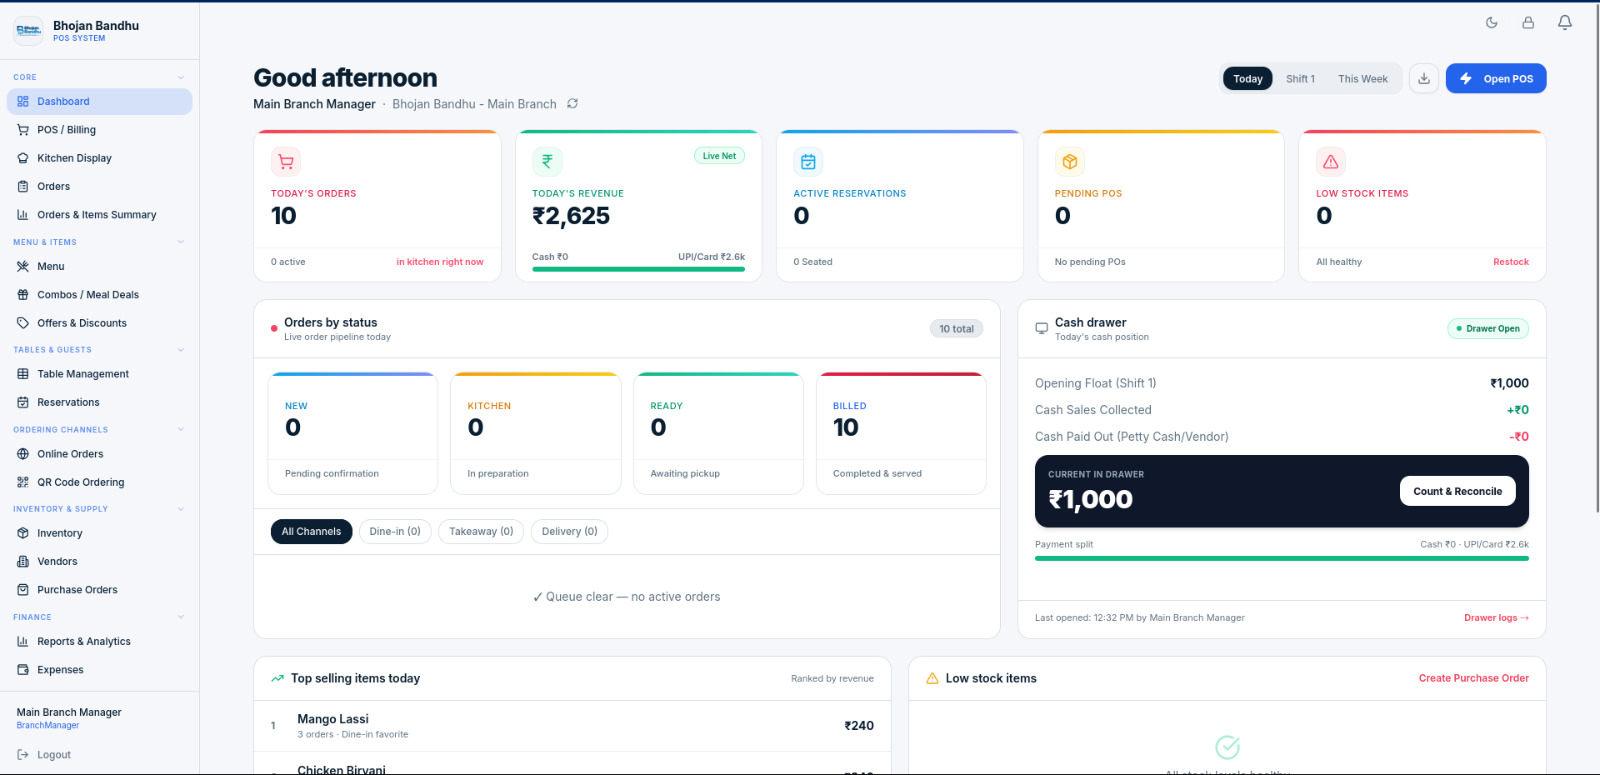
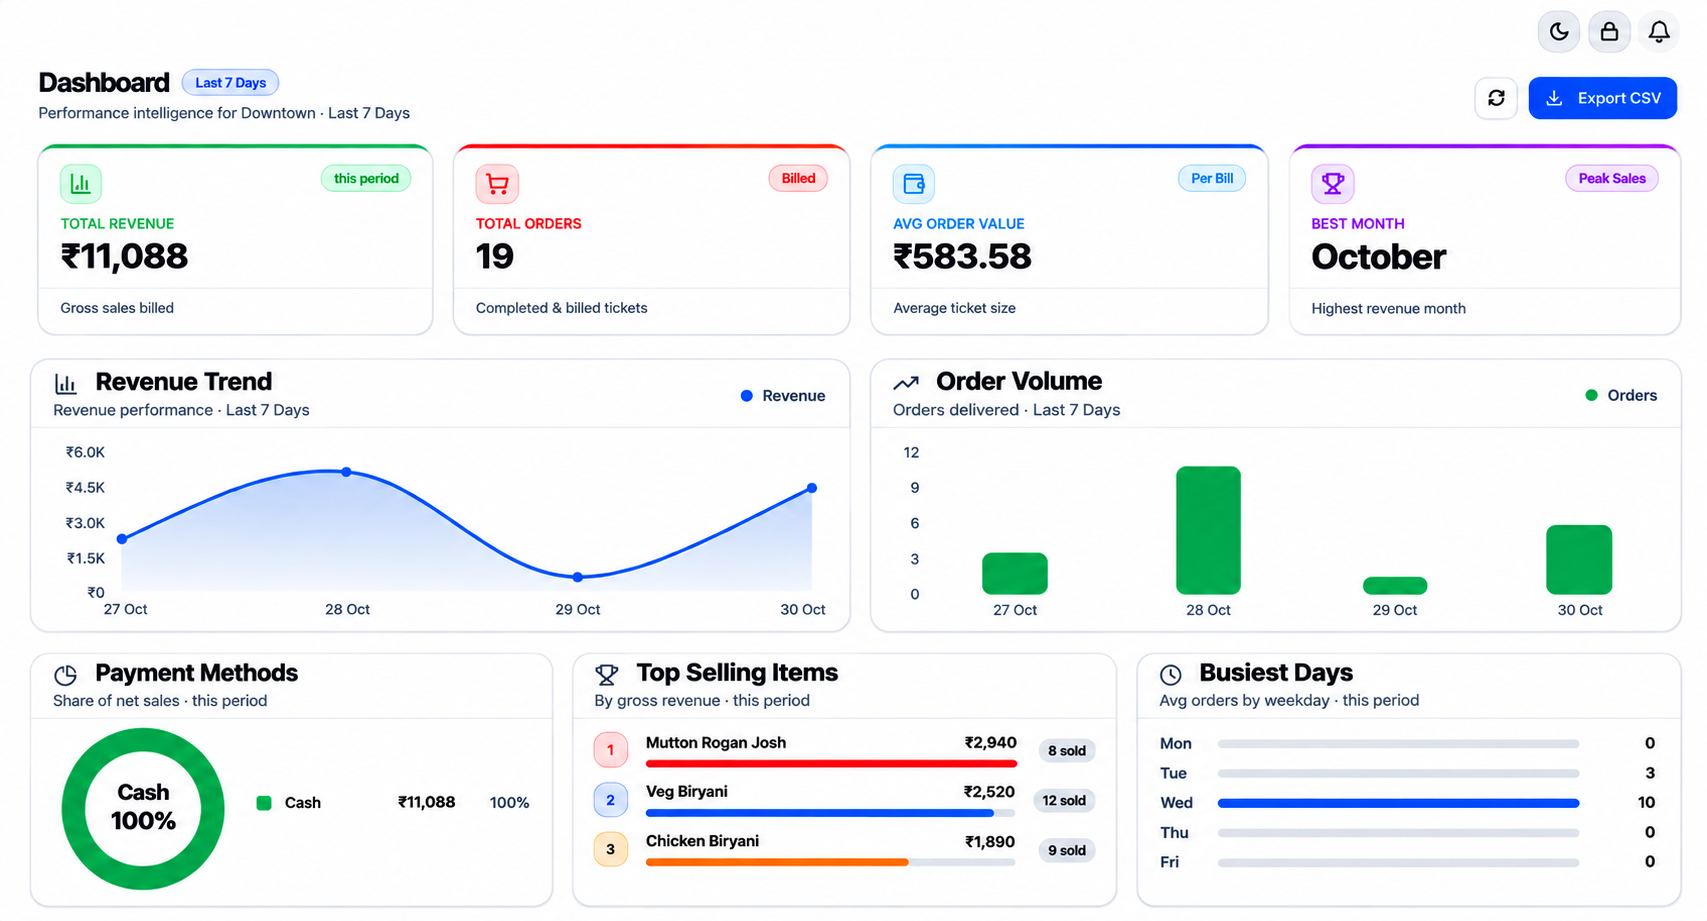
fix

diff --git a/client/src/components/BusinessPulse.jsx b/client/src/components/BusinessPulse.jsx
@@ -1,6 +1,21 @@
-import { useRef } from 'react'
-import { motion, useInView } from 'framer-motion'
-import { TrendingUp, Activity, BarChart3, AlertCircle, ArrowUpRight, Sparkles } from 'lucide-react'
+import { useState, useEffect, useRef } from 'react'
+import { motion, AnimatePresence, useInView } from 'framer-motion'
+import {
+  TrendingUp,
+  Activity,
+  BarChart3,
+  AlertCircle,
+  ArrowUpRight,
+  Sparkles,
+  Lock,
+  RotateCw,
+  ChevronLeft,
+  ChevronRight,
+  Plus,
+  X,
+  Maximize2,
+  ZoomIn,
+} from 'lucide-react'
 import dashboardMockup from '../assets/dashboard-mockup.png'
 
 const metrics = [
@@ -12,19 +27,37 @@ const metrics = [
 
 export default function BusinessPulse({ darkMode }) {
   const ref = useRef(null)
+  const [isZoomed, setIsZoomed] = useState(false)
   const inView = useInView(ref, { once: true, margin: '-60px' })
 
+  // Close lightbox on Escape key
+  useEffect(() => {
+    const handleKeyDown = (e) => {
+      if (e.key === 'Escape') setIsZoomed(false)
+    }
+    if (isZoomed) {
+      window.addEventListener('keydown', handleKeyDown)
+      document.body.style.overflow = 'hidden'
+    } else {
+      document.body.style.overflow = ''
+    }
+    return () => {
+      window.removeEventListener('keydown', handleKeyDown)
+      document.body.style.overflow = ''
+    }
+  }, [isZoomed])
+
   return (
-    <section className="py-14 sm:py-16 md:py-20 relative overflow-hidden border-t border-slate-800/40 dark:border-white/[0.06]" ref={ref}>
+    <section className="py-14 sm:py-16 md:py-24 relative overflow-hidden border-t border-slate-800/40 dark:border-white/[0.06]" ref={ref}>
       <div className="max-w-7xl mx-auto px-4 sm:px-6 lg:px-8 relative z-10">
-        <div className="grid grid-cols-1 lg:grid-cols-12 gap-8 sm:gap-10 lg:gap-14 items-center">
+        <div className="grid grid-cols-1 lg:grid-cols-12 gap-8 sm:gap-10 lg:gap-10 xl:gap-12 items-center">
           
-          {/* ================= LEFT COLUMN: Text & Badges (5 Cols) ================= */}
+          {/* ================= LEFT COLUMN: Text & Badges (4 Cols on xl, 5 on lg) ================= */}
           <motion.div
             initial={{ opacity: 0, x: -30 }}
             animate={inView ? { opacity: 1, x: 0 } : {}}
             transition={{ duration: 0.6 }}
-            className="lg:col-span-5 flex flex-col items-start text-left"
+            className="lg:col-span-5 xl:col-span-4 flex flex-col items-start text-left"
           >
             <div className="inline-flex items-center gap-2 px-3.5 py-1.5 rounded-full gradient-badge mb-4">
               <Sparkles size={14} className="text-[#068aca]" />
@@ -78,50 +111,194 @@ export default function BusinessPulse({ darkMode }) {
             </button>
           </motion.div>
 
-          {/* ================= RIGHT COLUMN: Dashboard UI Mockup (7 Cols) ================= */}
+          {/* ================= RIGHT COLUMN: Dashboard UI Mockup (8 Cols on xl, 7 on lg) ================= */}
           <motion.div
-            initial={{ opacity: 0, x: 30 }}
-            animate={inView ? { opacity: 1, x: 0 } : {}}
-            transition={{ duration: 0.6, delay: 0.2 }}
-            className="lg:col-span-7 relative"
+            initial={{ opacity: 0, y: 20 }}
+            animate={inView ? { opacity: 1, y: 0 } : {}}
+            transition={{ duration: 0.5, delay: 0.15 }}
+            className="lg:col-span-7 xl:col-span-8 relative w-full"
           >
             {/* Ambient backlight glow */}
-            <div className="absolute top-1/2 left-1/2 -translate-x-1/2 -translate-y-1/2 w-96 h-96 bg-[#068aca]/15 blur-[90px] rounded-full pointer-events-none" />
+            <div className="absolute top-1/2 left-1/2 -translate-x-1/2 -translate-y-1/2 w-full max-w-2xl h-80 sm:h-96 bg-[#068aca]/20 blur-[100px] sm:blur-[120px] rounded-full pointer-events-none" />
 
-            {/* Dashboard Frame */}
-            <div className={`relative rounded-2xl p-2 sm:p-3 border shadow-2xl backdrop-blur-xl ${
-              darkMode
-                ? 'bg-dark-surface/90 border-dark-border shadow-black/60'
-                : 'bg-slate-800 border-slate-700 shadow-slate-900/20'
-            }`}>
-              {/* Window Controls Bar */}
-              <div className="flex items-center justify-between px-2.5 pb-2 mb-1 border-b border-slate-700 dark:border-white/[0.06]">
-                <div className="flex items-center gap-1.5">
-                  <span className="w-2.5 h-2.5 rounded-full bg-[#068aca]" />
-                  <span className="w-2.5 h-2.5 rounded-full bg-[#84bed9]" />
-                  <span className="w-2.5 h-2.5 rounded-full bg-[#0996d4]" />
+            {/* Dashboard Browser Window Frame */}
+            <div className="relative rounded-2xl sm:rounded-3xl border border-slate-700/80 dark:border-white/10 bg-slate-900 shadow-[0_25px_70px_-15px_rgba(0,0,0,0.85),0_0_50px_rgba(6,138,202,0.18)] ring-1 ring-white/10 overflow-hidden">
+              
+              {/* Row 1: macOS Traffic Lights & Browser Tabs Bar */}
+              <div className="flex items-center justify-between px-3 sm:px-4 pt-3 pb-2 border-b border-slate-800 bg-slate-950/90">
+                <div className="flex items-center gap-2 sm:gap-3">
+                  {/* macOS Window Controls */}
+                  <div className="flex items-center gap-1.5 pr-2 border-r border-slate-800">
+                    <span className="w-3 h-3 rounded-full bg-[#ff5f56] border border-[#e0443e]/40 shadow-sm" />
+                    <span className="w-3 h-3 rounded-full bg-[#ffbd2e] border border-[#dea123]/40 shadow-sm" />
+                    <button
+                      type="button"
+                      onClick={() => setIsZoomed(true)}
+                      title="Expand to Fullscreen"
+                      aria-label="Expand to Fullscreen"
+                      className="w-3 h-3 rounded-full bg-[#27c93f] border border-[#1aab29]/40 shadow-sm hover:opacity-80 transition-opacity cursor-pointer"
+                    />
+                  </div>
+
+                  {/* Active Browser Tab */}
+                  <div className="flex items-center gap-2 px-3 py-1 rounded-t-lg bg-slate-800/90 border-t-2 border-t-[#068aca] border-x border-slate-700/60 shadow-sm text-xs font-medium text-slate-200">
+                    <span className="w-2 h-2 rounded-full bg-emerald-400 animate-pulse" />
+                    <span className="truncate max-w-[130px] sm:max-w-[190px]">Bhojan Bandhu — HQ</span>
+                    <X size={12} className="text-slate-400 hover:text-white transition-colors cursor-pointer shrink-0 ml-1" />
+                  </div>
+
+                  {/* Inactive Tab (Tablet & Desktop) */}
+                  <div className="hidden sm:flex items-center gap-1.5 px-3 py-1 rounded-t-lg text-xs font-medium text-slate-400 hover:text-slate-300 transition-colors cursor-pointer">
+                    <span className="truncate max-w-[120px]">Branch Analytics</span>
+                  </div>
+
+                  {/* New Tab Button */}
+                  <button
+                    type="button"
+                    aria-label="New Tab"
+                    className="hidden sm:flex p-1 rounded-md text-slate-400 hover:text-white hover:bg-slate-800 transition-colors"
+                  >
+                    <Plus size={13} />
+                  </button>
                 </div>
-                <span className="text-[10px] font-mono text-slate-300">
-                  BhojanBandhu-cloud-dashboard.com
-                </span>
-                <span className="text-[9px] font-semibold px-1.5 py-0.5 rounded bg-emerald-500/15 text-emerald-400">
-                  LIVE
-                </span>
+
+                {/* Right Side Status Indicator */}
+                <div className="flex items-center gap-2 text-xs">
+                  <span className="hidden md:inline-flex items-center gap-1.5 px-2.5 py-0.5 rounded-full bg-emerald-500/10 border border-emerald-500/25 text-emerald-400 text-[10px] font-semibold tracking-wide">
+                    <span className="w-1.5 h-1.5 rounded-full bg-emerald-400 animate-ping" />
+                    LIVE SYNC
+                  </span>
+                  <span className="text-[10px] font-mono text-slate-400 bg-slate-800/60 px-2 py-0.5 rounded border border-slate-700/50">
+                    v2.4 ERP
+                  </span>
+                </div>
               </div>
 
-              {/* Dashboard Image */}
-              <motion.img
-                src={dashboardMockup}
-                alt="BhojanBandhu Multi-Branch SaaS Management Dashboard"
-                className="w-full h-auto rounded-xl object-contain border border-slate-700/50 dark:border-white/[0.04]"
-                whileHover={{ scale: 1.01 }}
-                transition={{ duration: 0.3 }}
-              />
+              {/* Row 2: Navigation Bar & Address URL Omnibox */}
+              <div className="flex items-center gap-2 sm:gap-3 px-3 sm:px-4 py-2 border-b border-slate-800/80 bg-slate-900/90 text-slate-400">
+                {/* Back / Forward / Reload Controls */}
+                <div className="flex items-center gap-1 shrink-0">
+                  <button type="button" aria-label="Go Back" className="p-1 rounded hover:bg-slate-800 hover:text-white transition-colors">
+                    <ChevronLeft size={15} />
+                  </button>
+                  <button type="button" aria-label="Go Forward" className="p-1 rounded text-slate-600 cursor-not-allowed">
+                    <ChevronRight size={15} />
+                  </button>
+                  <button type="button" aria-label="Reload Page" className="p-1 rounded hover:bg-slate-800 hover:text-white transition-colors">
+                    <RotateCw size={13} />
+                  </button>
+                </div>
+
+                {/* Omnibox / URL Bar */}
+                <div className="flex-1 max-w-xl mx-auto bg-slate-950/80 border border-slate-700/70 rounded-lg px-2.5 sm:px-3 py-1 flex items-center justify-between text-xs font-mono shadow-inner">
+                  <div className="flex items-center gap-1.5 truncate">
+                    <Lock size={12} className="text-emerald-400 shrink-0" />
+                    <span className="text-slate-500 text-[11px] sm:text-xs">https://</span>
+                    <span className="text-slate-200 text-[11px] sm:text-xs font-medium">cloud.bhojanbandhu.com</span>
+                    <span className="text-[#068aca] text-[11px] sm:text-xs">/live-pulse</span>
+                  </div>
+                  <span className="hidden sm:inline-block text-[10px] text-emerald-400 font-sans font-medium px-1.5 py-0.5 rounded bg-emerald-500/15 border border-emerald-500/20 shrink-0 ml-2">
+                    24ms
+                  </span>
+                </div>
+
+                {/* Right Action Icons: Fullscreen / Lightbox Zoom */}
+                <div className="flex items-center gap-1 shrink-0">
+                  <button
+                    type="button"
+                    onClick={() => setIsZoomed(true)}
+                    title="Expand View"
+                    aria-label="Expand View"
+                    className="p-1 rounded hover:bg-slate-800 hover:text-white transition-colors cursor-pointer"
+                  >
+                    <Maximize2 size={13} />
+                  </button>
+                </div>
+              </div>
+
+              {/* Window Canvas: Flush Edge-to-Edge Dashboard Mockup with Crisp Rendering */}
+              <div
+                className="relative w-full bg-slate-950 overflow-hidden cursor-zoom-in group"
+                onClick={() => setIsZoomed(true)}
+              >
+                <img
+                  src={dashboardMockup}
+                  alt="BhojanBandhu Multi-Branch SaaS Management Dashboard"
+                  className="w-full h-auto block select-none"
+                  style={{
+                    imageRendering: '-webkit-optimize-contrast',
+                    transform: 'translateZ(0)',
+                    backfaceVisibility: 'hidden',
+                    WebkitBackfaceVisibility: 'hidden',
+                  }}
+                  loading="eager"
+                  decoding="async"
+                />
+
+                {/* Hover zoom affordance */}
+                <div className="absolute inset-0 bg-slate-950/25 opacity-0 group-hover:opacity-100 transition-opacity duration-200 flex items-center justify-center pointer-events-none">
+                  <span className="px-3.5 py-1.5 rounded-xl bg-slate-900/95 text-white text-xs font-semibold border border-white/15 shadow-2xl flex items-center gap-2 backdrop-blur-md">
+                    <ZoomIn size={14} className="text-[#068aca]" />
+                    <span>Click to view in full resolution</span>
+                  </span>
+                </div>
+              </div>
             </div>
+
           </motion.div>
 
         </div>
       </div>
+
+      {/* ================= FULLSCREEN LIGHTBOX MODAL ================= */}
+      <AnimatePresence>
+        {isZoomed && (
+          <motion.div
+            initial={{ opacity: 0 }}
+            animate={{ opacity: 1 }}
+            exit={{ opacity: 0 }}
+            transition={{ duration: 0.2 }}
+            className="fixed inset-0 z-50 bg-black/90 backdrop-blur-md flex flex-col items-center justify-center p-3 sm:p-6 md:p-8"
+            onClick={() => setIsZoomed(false)}
+          >
+            <div
+              className="relative max-w-7xl w-full max-h-[92vh] flex flex-col items-center bg-slate-900 border border-slate-700/80 rounded-2xl shadow-2xl overflow-hidden"
+              onClick={(e) => e.stopPropagation()}
+            >
+              {/* Modal Topbar */}
+              <div className="w-full flex items-center justify-between px-4 py-3 bg-slate-950 border-b border-slate-800 text-white">
+                <div className="flex items-center gap-2.5">
+                  <span className="w-2.5 h-2.5 rounded-full bg-emerald-400 animate-pulse" />
+                  <span className="text-xs sm:text-sm font-semibold tracking-wide">
+                    Bhojan Bandhu — Live Cloud HQ Dashboard (Full Resolution)
+                  </span>
+                </div>
+
+                <button
+                  type="button"
+                  onClick={() => setIsZoomed(false)}
+                  className="px-3 py-1.5 rounded-lg bg-white/10 hover:bg-white/20 text-white transition-colors flex items-center gap-1.5 text-xs font-medium cursor-pointer"
+                >
+                  <X size={15} />
+                  <span>Close (Esc)</span>
+                </button>
+              </div>
+
+              {/* Scrollable Crisp Image Area */}
+              <div className="w-full overflow-auto bg-slate-950 p-2 sm:p-4 max-h-[calc(92vh-55px)] flex justify-center">
+                <img
+                  src={dashboardMockup}
+                  alt="BhojanBandhu Dashboard Fullscreen"
+                  className="w-full max-w-none h-auto object-contain block select-none"
+                  style={{
+                    imageRendering: '-webkit-optimize-contrast',
+                  }}
+                />
+              </div>
+            </div>
+          </motion.div>
+        )}
+      </AnimatePresence>
     </section>
   )
 }
